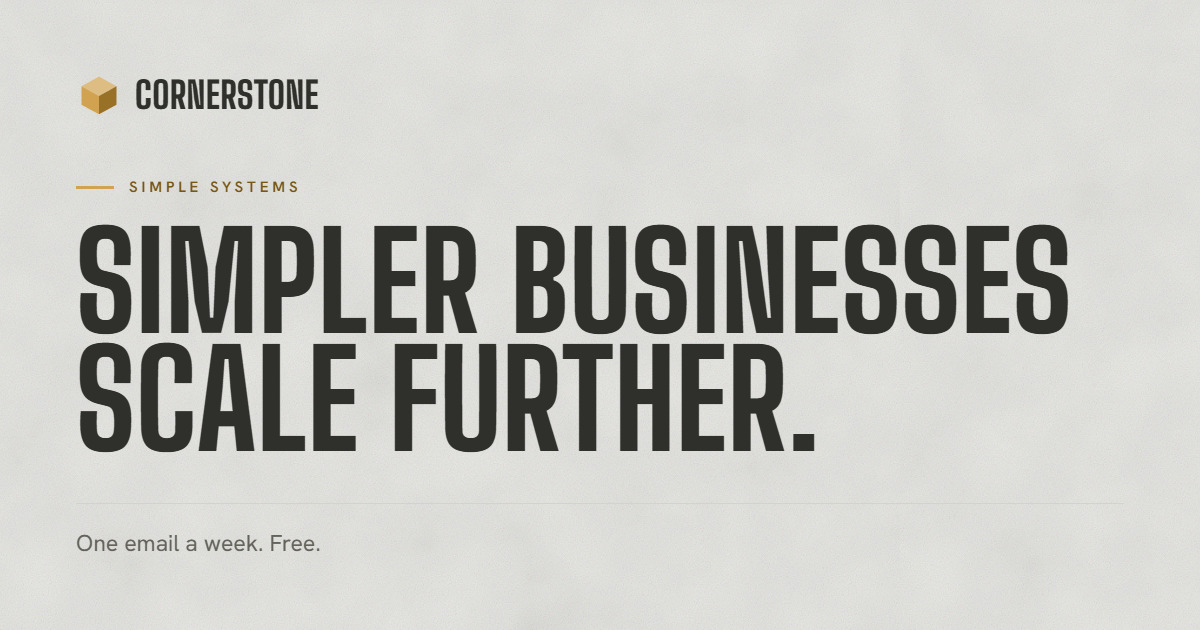
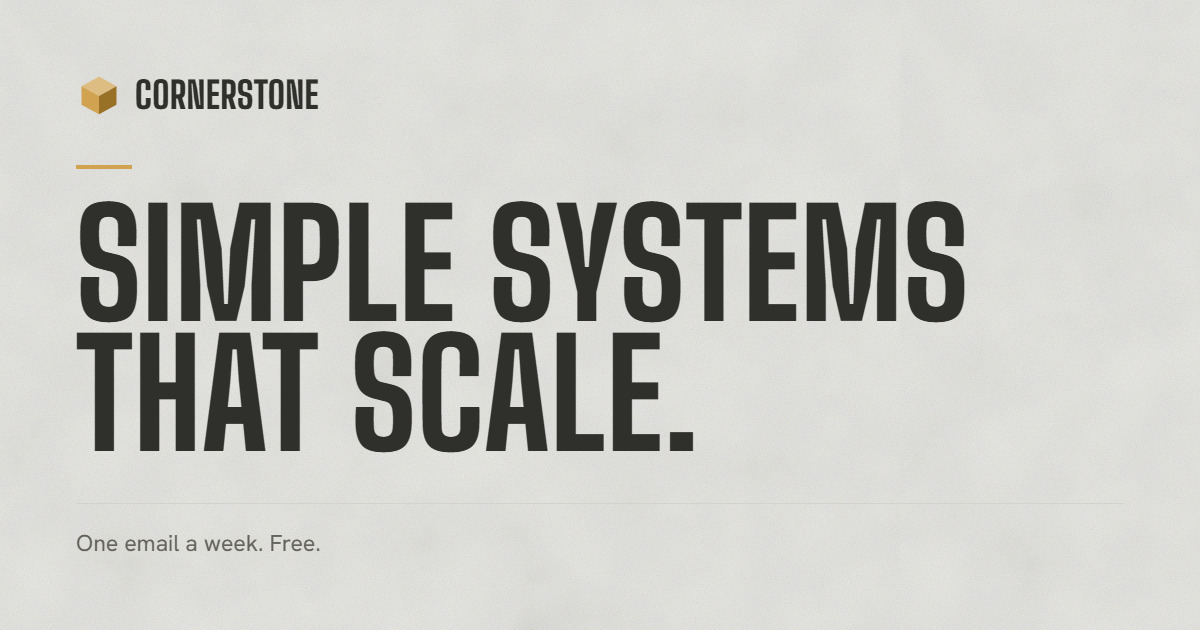
newsletter: the card names the thing instead of arguing for it
"Simpler businesses scale further" is the page's argument, and an argument is
the wrong job for an image read at thumbnail size in a feed. The card says
"Simple systems that scale" now, so a scroller learns what the newsletter is
called before deciding whether to stop.

The eyebrow goes with it. With the name in the headline, a tracked-caps
"SIMPLE SYSTEMS" above it was the same two words twice. What is left is the
brass rule on its own, which is the pack's accent-as-punctuation use, and the
headline gets the room the eyebrow was taking: 134px to 148px.

The page's H1 is unchanged.

Claude-Session: https://claude.ai/code/session_01DorcrVi52qUcL32kxsQHcu

Changed region(s): [[0.0617, 0.2413, 0.8942, 0.7238]]

diff --git a/cornerstone-site/app/simple-systems/page.tsx b/cornerstone-site/app/simple-systems/page.tsx
@@ -28,7 +28,7 @@ export const metadata: Metadata = {
         url: "/images/og-simple-systems.jpg",
         width: 1200,
         height: 630,
-        alt: "Simple Systems. Simpler businesses scale further.",
+        alt: "Simple systems that scale. The Cornerstone AI newsletter.",
       },
     ],
   },
